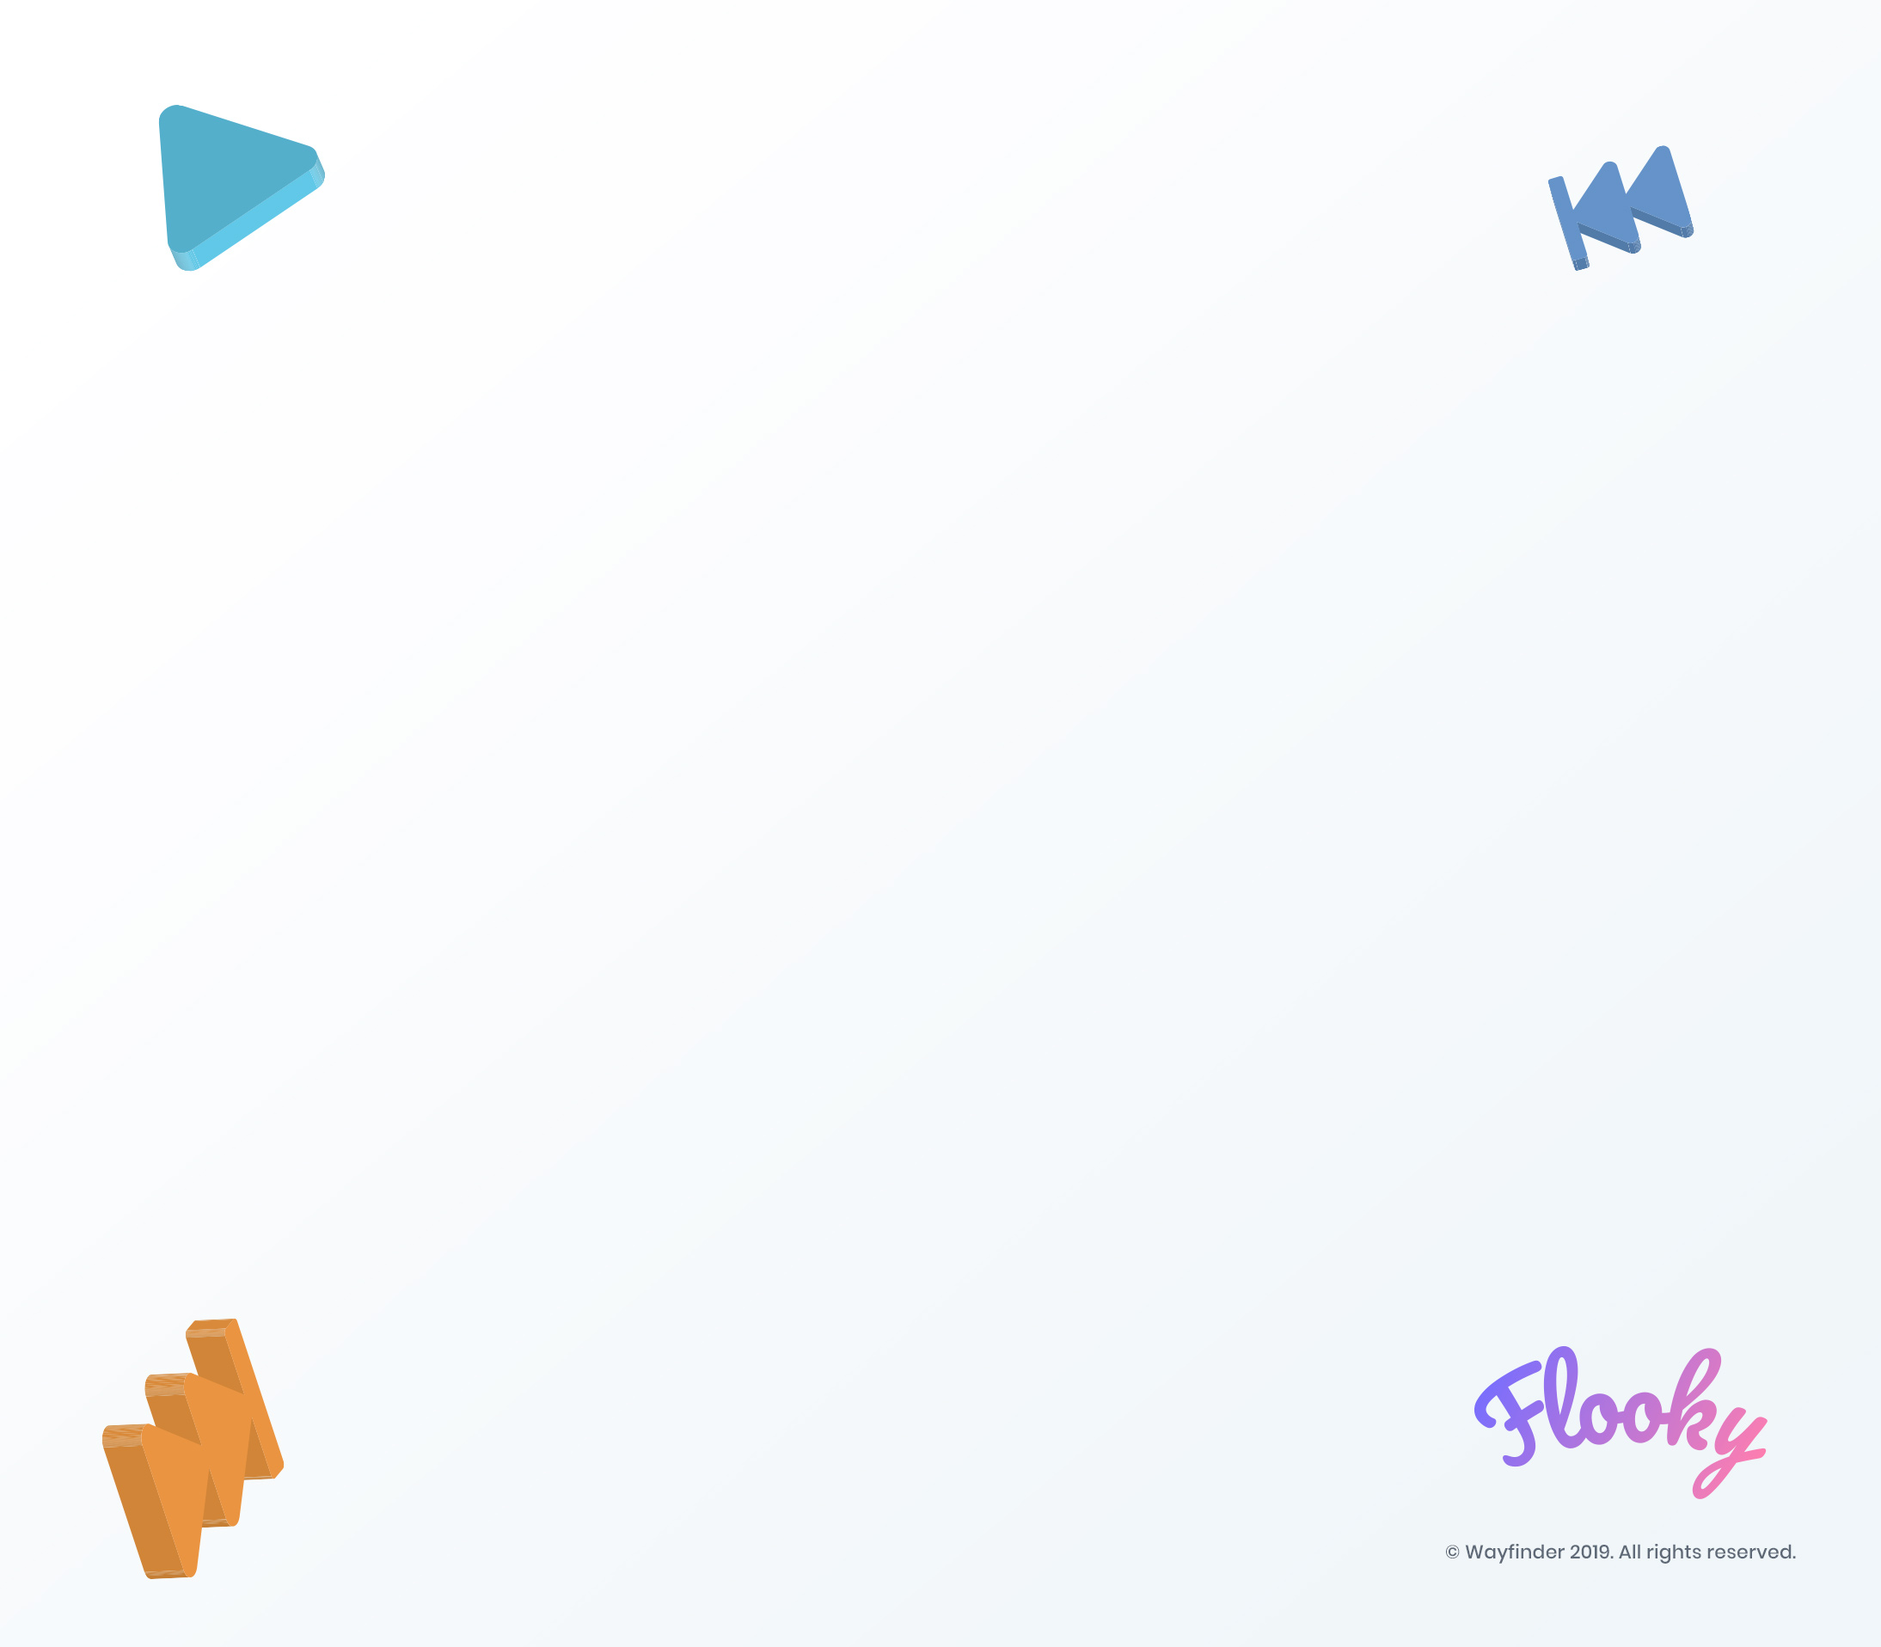
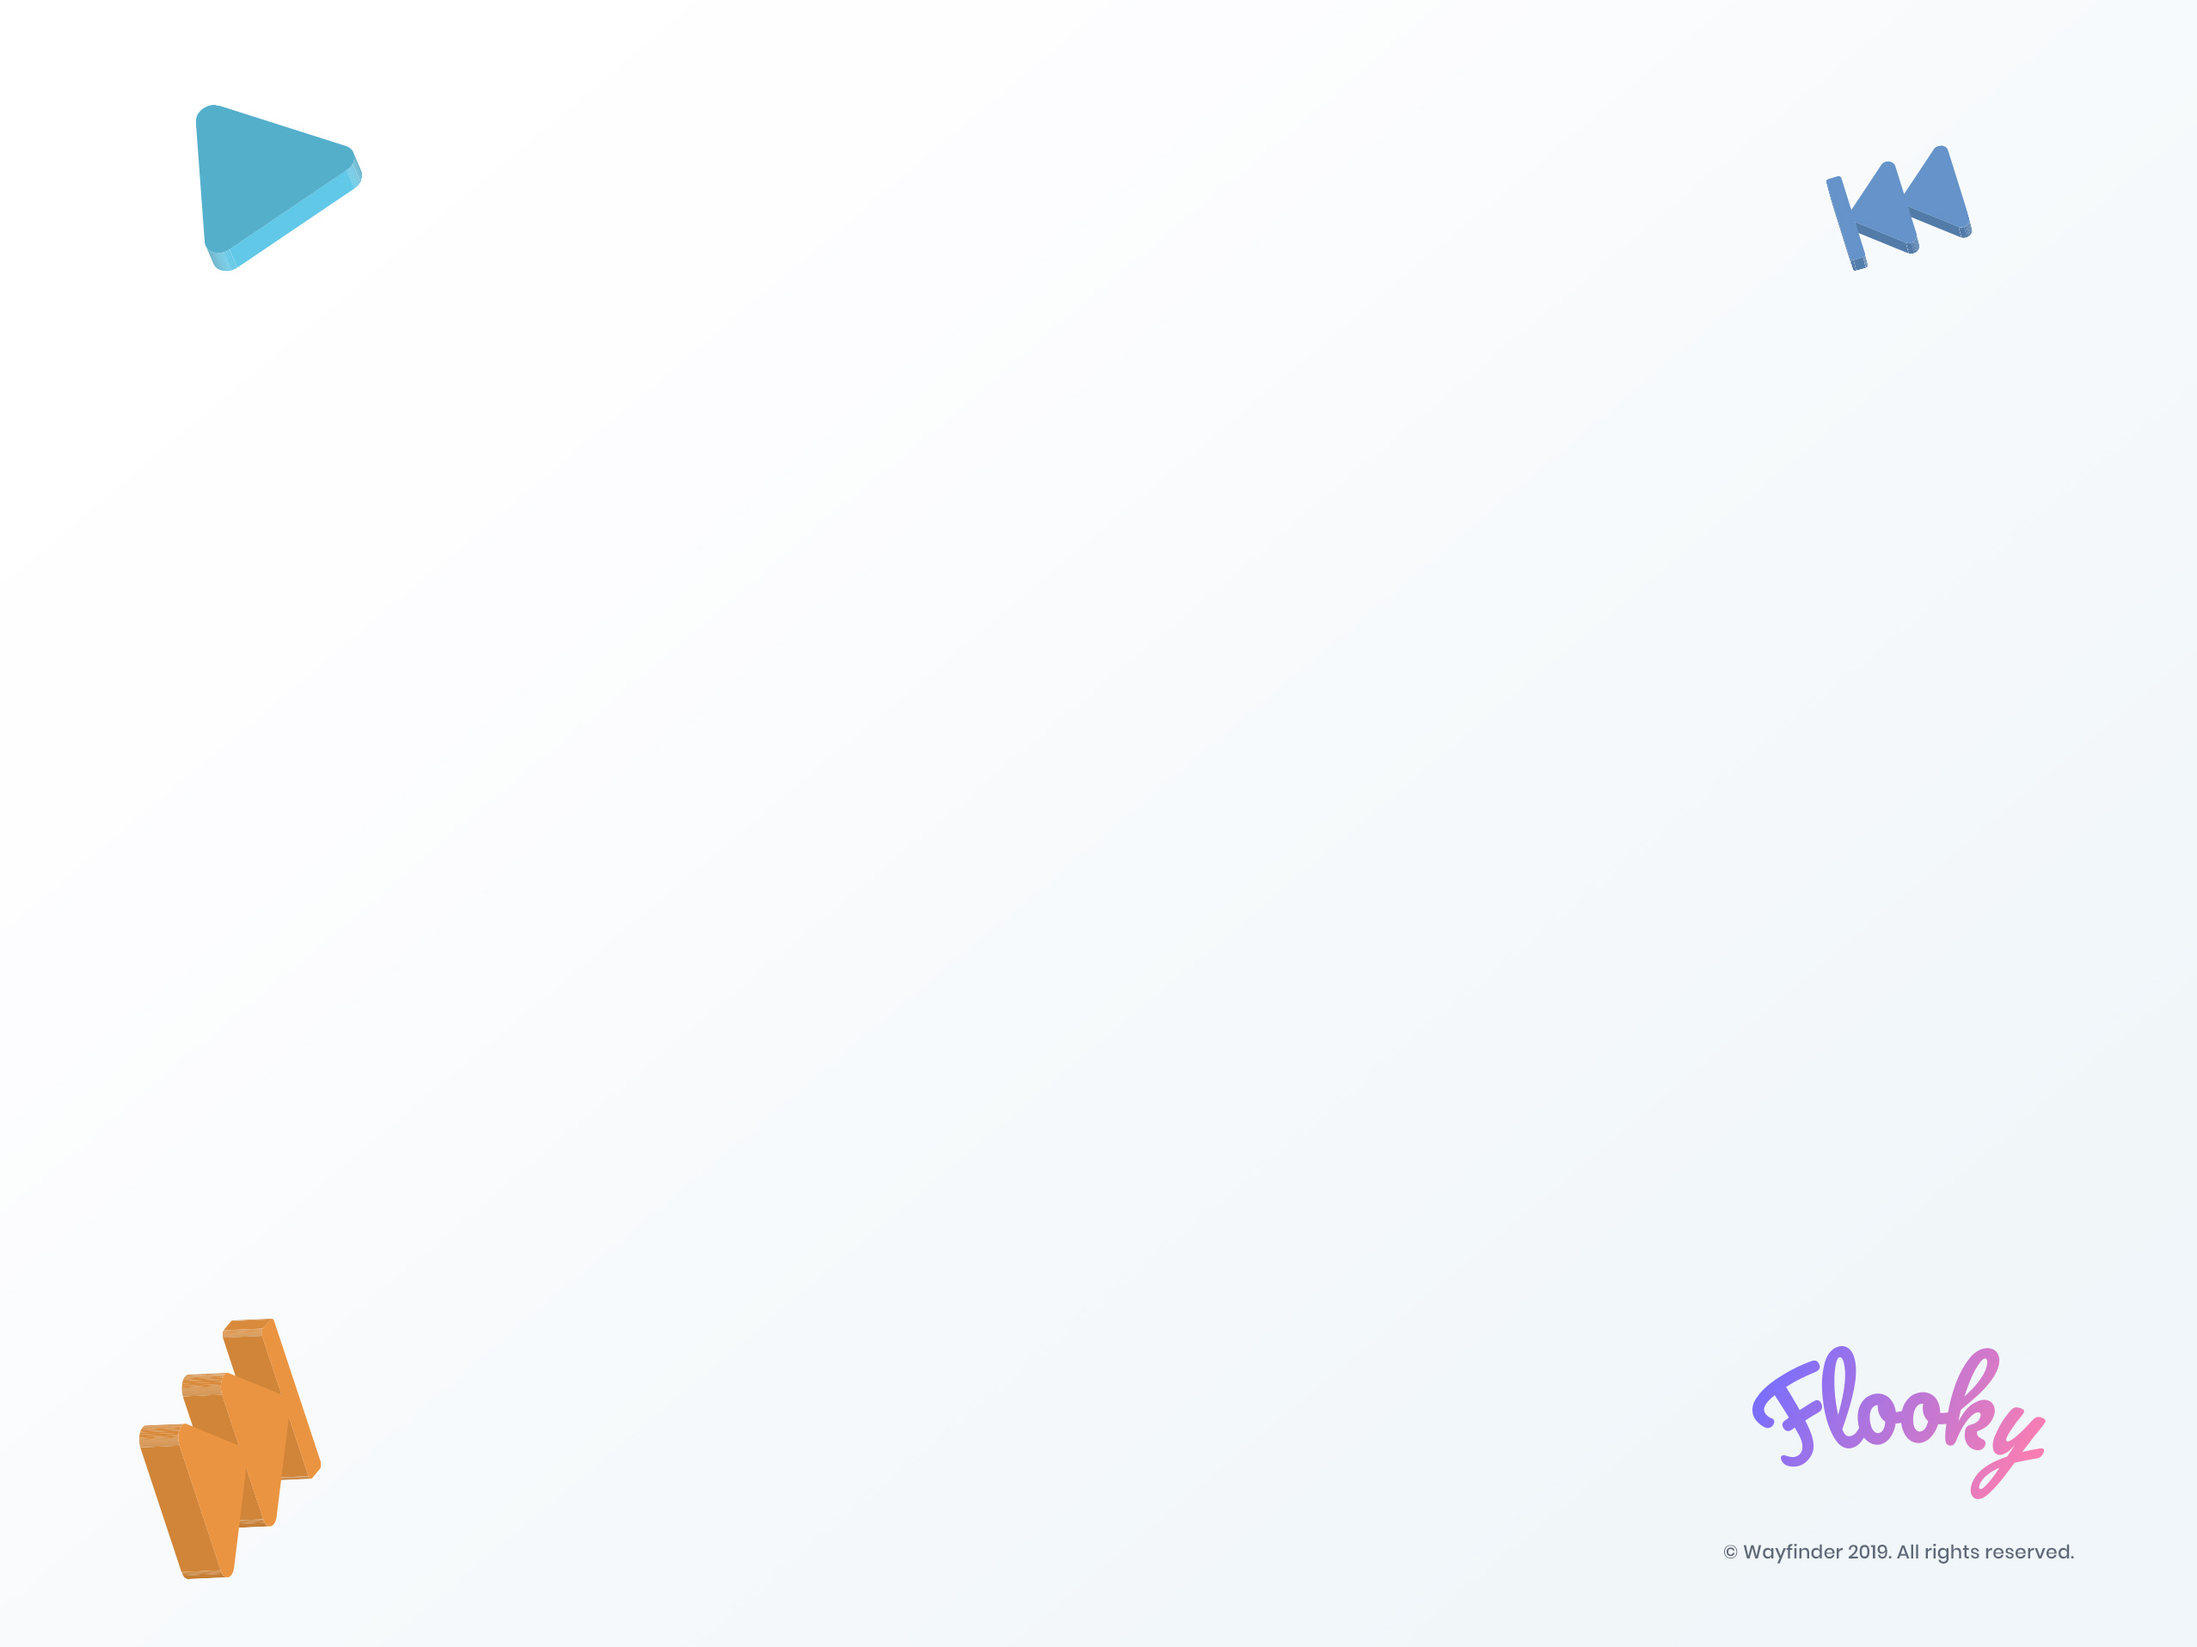
dribbble bug fix

diff --git a/scss/style.scss b/scss/style.scss
@@ -10,7 +10,7 @@ h3 { font-size: $h3-fontsize; font-weight: 500; margin:0px; overflow:visible; pa
 
 #instagram { display: none; position: absolute; background: #fff url(../img/background/instagram-4.jpg) no-repeat; background-size: cover; width: 1080px; height: 1080px; /*box-shadow: 0 0 32px 0 rgba(0,0,0,0.20);*/ }
 #facebook { display: none; position: absolute; background: #fff url(../img/background/facebook-2.jpg) no-repeat; background-size: cover; width: 1692px; height: 954px; /*box-shadow: 0 0 32px 0 rgba(0,0,0,0.20);*/ }
-#dribbble { display: none; position: absolute; background: #fff url(../img/background/dribbble.jpg) no-repeat; background-size: cover; width: 1094px; height: 958px; /*box-shadow: 0 0 32px 0 rgba(0,0,0,0.20);*/ }
+#dribbble { display: none; position: absolute; background: #fff url(../img/background/dribbble.jpg) no-repeat; background-size: cover; width: 1277px; height: 958px; /*box-shadow: 0 0 32px 0 rgba(0,0,0,0.20);*/ }
 
 #iphoneXS { display: none; position: absolute; background: url(../img/misc/iphone-xs.svg) no-repeat; background-size: cover; width: 408.5px; height: 833px; top: 17px; }
 #iphoneX { display: none; position: absolute; background: url(../img/misc/iphone-xs.svg) no-repeat; background-size: cover; width: 408.5px; height: 750px; }

diff --git a/css/style.css b/css/style.css
@@ -42,7 +42,7 @@ h3 {
   position: absolute;
   background: #fff url(../img/background/dribbble.jpg) no-repeat;
   background-size: cover;
-  width: 1094px;
+  width: 1277px;
   height: 958px;
   /*box-shadow: 0 0 32px 0 rgba(0,0,0,0.20);*/ }
 
